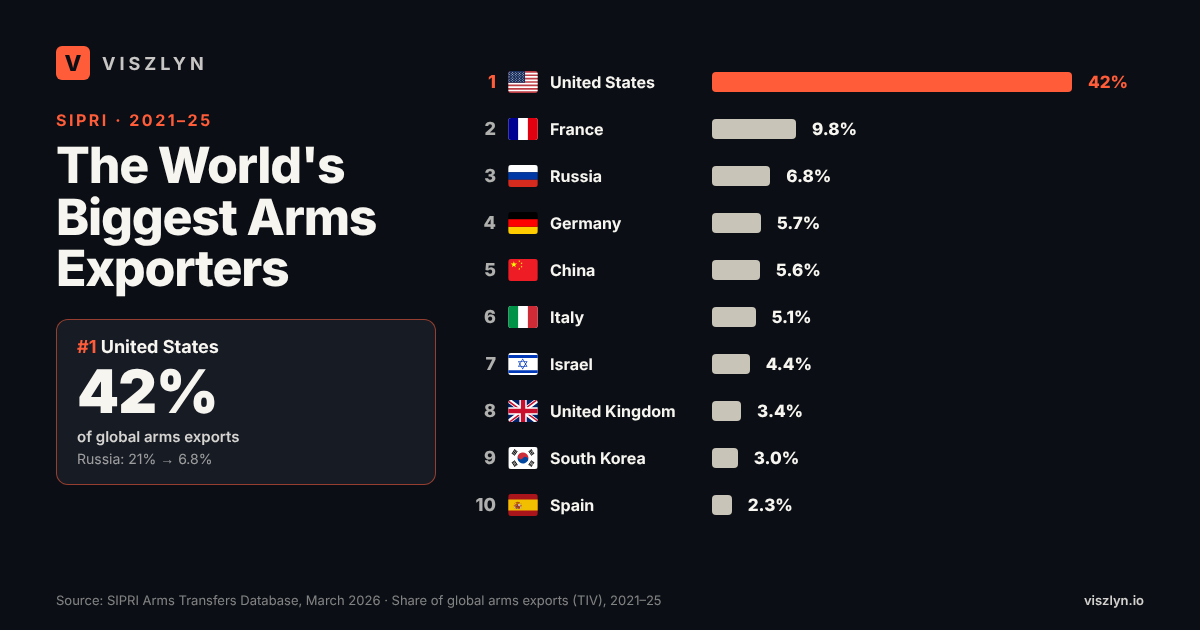
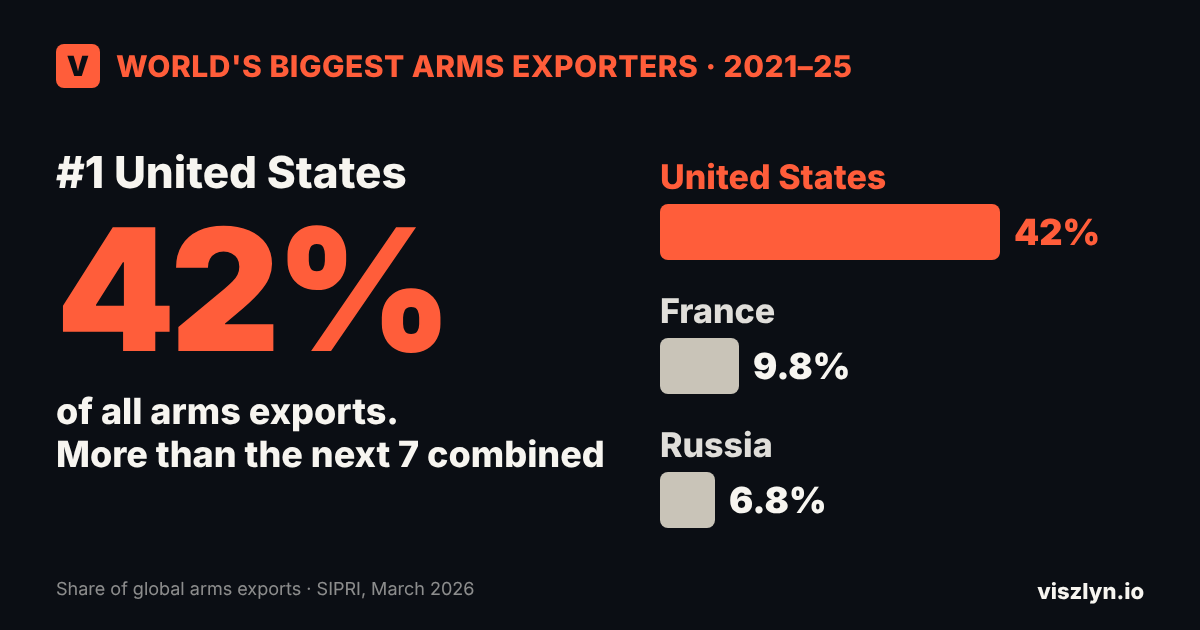
Hero images: full top-10 card in articles (1080x1350), bold share image for feeds; applied to chips and arms
Claude-Session: https://claude.ai/code/session_01Lx7Mnbsr2j6Zre36XCS9Kp

diff --git a/src/app/rankings/[slug]/page.tsx b/src/app/rankings/[slug]/page.tsx
@@ -199,10 +199,12 @@ export default async function RankingArticlePage({ params }: PageProps) {
               <img
                 src={article.heroImage.src}
                 alt={article.heroImage.alt}
-                width={1200}
-                height={630}
+                width={article.heroImage.width ?? 1200}
+                height={article.heroImage.height ?? 630}
                 fetchPriority="high"
-                className="block w-full h-auto rounded-xl"
+                className={`block w-full h-auto rounded-xl ${
+                  (article.heroImage.height ?? 630) > (article.heroImage.width ?? 1200) ? "max-w-[560px] mx-auto" : ""
+                }`}
               />
             ) : (
               <HeroBanner

diff --git a/src/data/rankings/types.ts b/src/data/rankings/types.ts
@@ -135,8 +135,11 @@ export type ArticleVideo = {
 };
 
 export type ArticleHeroImage = {
-  /** 2400x1260 PNG under /public, shown on the article page, e.g. "/heroes/<slug>.png" */
+  /** PNG under /public shown on the article page, e.g. "/heroes/<slug>.png" (2x of width x height) */
   src: string;
+  /** Display size of `src` in CSS pixels. Default 1200x630. Full-ranking cards use 1080x1350. */
+  width?: number;
+  height?: number;
   /** 1200x630 PNG under /public, used for Open Graph, Twitter and Google Discover */
   ogSrc: string;
   alt: string;

diff --git a/src/data/rankings/biggest-arms-exporters-2026.ts b/src/data/rankings/biggest-arms-exporters-2026.ts
@@ -23,6 +23,8 @@ export const biggestArmsExporters2026: RankingArticle = {
   dataPeriod: "2021–25 (five-year period), SIPRI Arms Transfers Database (March 2026)",
   heroImage: {
     src: "/heroes/biggest-arms-exporters-2026.png",
+    width: 1080,
+    height: 1350,
     ogSrc: "/heroes/biggest-arms-exporters-2026-og.png",
     alt: "Bar chart of the world's 10 biggest arms exporters by share of global arms exports in 2021–25, led by the United States at 42%, then France at 9.8% and Russia at 6.8%. Source: SIPRI.",
   },

diff --git a/src/data/rankings/biggest-chip-companies-2026.ts b/src/data/rankings/biggest-chip-companies-2026.ts
@@ -23,6 +23,8 @@ export const biggestChipCompanies2026: RankingArticle = {
   dataPeriod: "Latest fiscal year ending in 2025 or January 2026",
   heroImage: {
     src: "/heroes/biggest-chip-companies-2026.png",
+    width: 1080,
+    height: 1350,
     ogSrc: "/heroes/biggest-chip-companies-2026-og.png",
     alt: "Bar chart of the world's 10 biggest chip companies by semiconductor revenue in their latest fiscal year, led by NVIDIA at $215.9 billion, then TSMC at $122.4 billion and Samsung at $91.5 billion.",
   },
